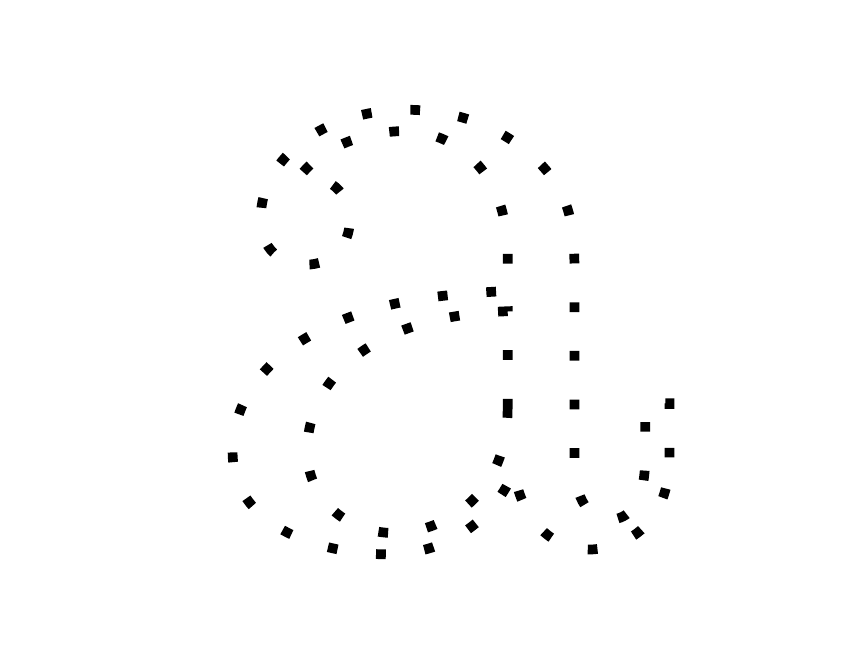
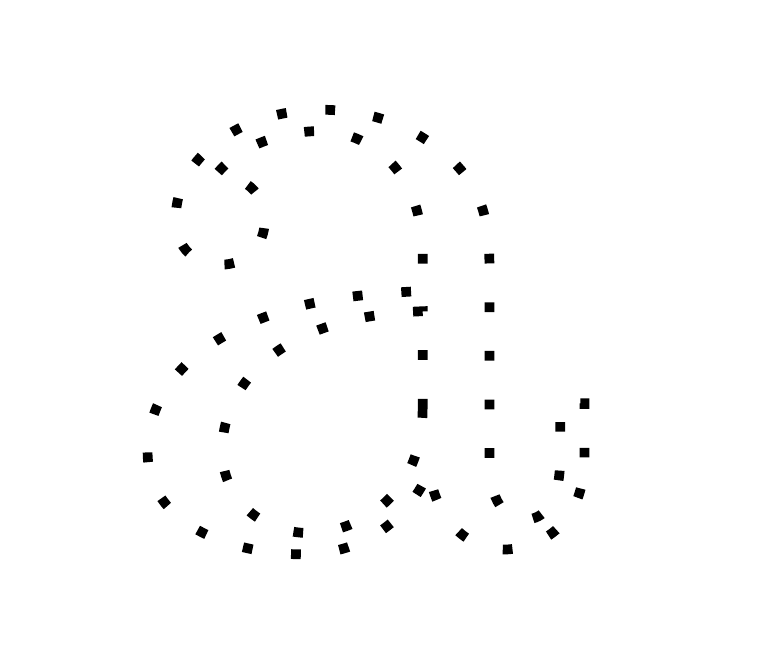
Made Some Changes

diff --git a/iscr_library/trace_image_experiment/image_extractor.py b/iscr_library/trace_image_experiment/image_extractor.py
@@ -4,51 +4,34 @@ from pdf2image import convert_from_path
 import os
 
 def convert_pdf_to_image(pdf_path, output_image_path):
-    # Convert PDF to image
     images = convert_from_path(pdf_path)
-    
-    # Ensure there is exactly one image (one page)
     if len(images) != 1:
         raise ValueError("PDF must contain exactly one page.")
-    
-    # Save the image
     image_path = f"{output_image_path}_page.png"
     images[0].save(image_path, 'PNG')
-    
     return image_path
 
 def extract_image_with_padding(image_path, output_image_path, 
                                left_padding=10, right_padding=40, 
                                top_padding=10, bottom_padding=60):
-    # Load the image using OpenCV
     open_cv_image = cv2.imread(image_path)
     height, width, _ = open_cv_image.shape
 
-    # Calculate pixel values for the ROI based on percentage paddings
     x_min = int(width * (left_padding / 100))
     x_max = int(width * (1 - (right_padding / 100)))
     y_min = int(height * (top_padding / 100))
     y_max = int(height * (1 - (bottom_padding / 100)))
 
-    # Extract the image using the bounding box
     extracted_image = open_cv_image[y_min:y_max, x_min:x_max]
-
-    # Save the extracted image
     output_file = f"{output_image_path}_extracted.png"
     cv2.imwrite(output_file, extracted_image)
     print(f"Saved extracted image to: {output_file}")
 
 if __name__ == "__main__":
-    pdf_path = "a_trace.pdf"  # Replace with your PDF file path
-    output_image_path = "extracted_image"  # Base name for output images
-
-    # Convert the PDF to an image
+    pdf_path = "a_trace.pdf"  
+    output_image_path = "extracted_image"  
     image_path = convert_pdf_to_image(pdf_path, output_image_path)
-
-    # Extract the image with padding
     extract_image_with_padding(image_path, output_image_path, 
-                               left_padding=10, right_padding=40, 
+                               left_padding=15, right_padding=40, 
                                top_padding=10, bottom_padding=60)
-
-    # Clean up the intermediate image file
     os.remove(image_path)

diff --git a/iscr_library/models/deep_models/models.py b/iscr_library/models/deep_models/models.py
@@ -4,7 +4,7 @@
 
 # /path/to/dataset/
 #     ├── class1/
-#     │   ├── image1.jpg
+#     │   ├── image1.jpg (TRACE AND NORMAL ARE IN ONE CLASS - a || TRACE AND NORMAL ARE IN DIFFERENT CLASS - a_trace, a_normal)
 #     │   ├── image2.jpg
 #     │   └── ...
 #     ├── class2/
@@ -241,7 +241,7 @@ hyparams = {
 }
 
 model_instance = Model(
-    model_name='vgg16',
+    model_name='vgg16', # resnet50, googlenet
     n_classes=3,
     train=True,
     pretrain_imagenet=True,

diff --git a/iscr_library/trace_image_experiment/pdf_extractor.py b/iscr_library/trace_image_experiment/pdf_extractor.py
@@ -47,7 +47,7 @@ if __name__ == "__main__":
 
     # Extract the image with padding
     extract_image_with_padding(image_path, output_image_path, 
-                               left_padding=10, right_padding=40, 
+                               left_padding=10, right_padding=48, 
                                top_padding=10, bottom_padding=60)
 
     # Clean up the intermediate image file
